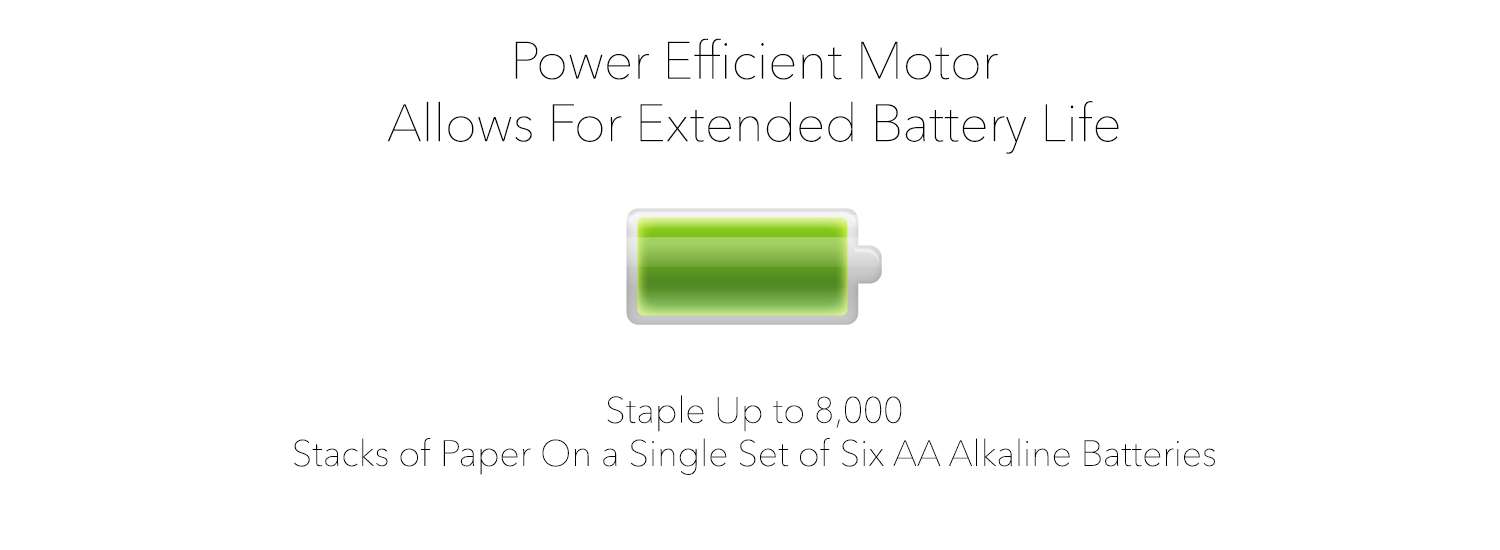
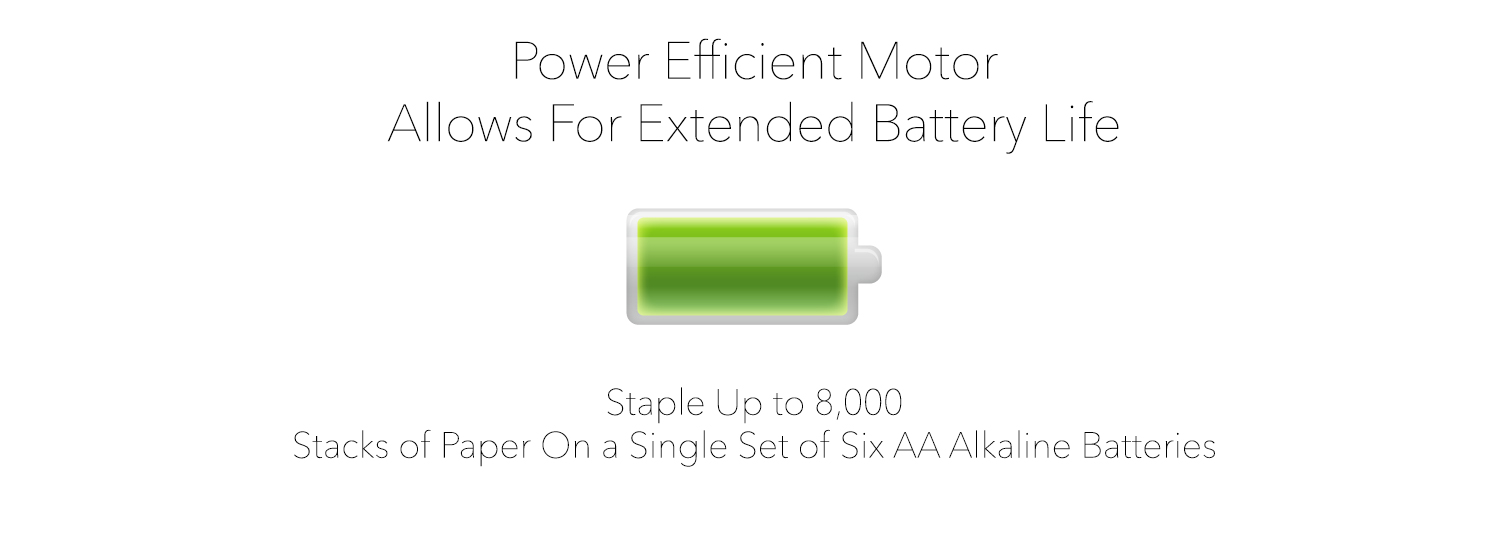
Style Adjustment

Changed region(s): [[0.184, 0.7109, 0.828, 0.8655]]

diff --git a/app/assets/stylesheets/master.css.scss b/app/assets/stylesheets/master.css.scss
@@ -532,7 +532,7 @@ p {
 .text-box2 {
   // background-image: url('paper_fibers.png');
   background: #FFFFFF;
-  margin-top: 20px;
+  margin-top: 40px;
   margin-bottom: 20px;
   padding-left: 20px;
   padding-right: 20px;
@@ -568,7 +568,7 @@ p {
 .feature-box {
   background: #FFFFFF;
   margin-top: 0px;
-  margin-bottom: 40px;
+  margin-bottom: 20px;
   padding-top: 15px;
   padding-bottom: 20px;
   padding-left: 20px;
